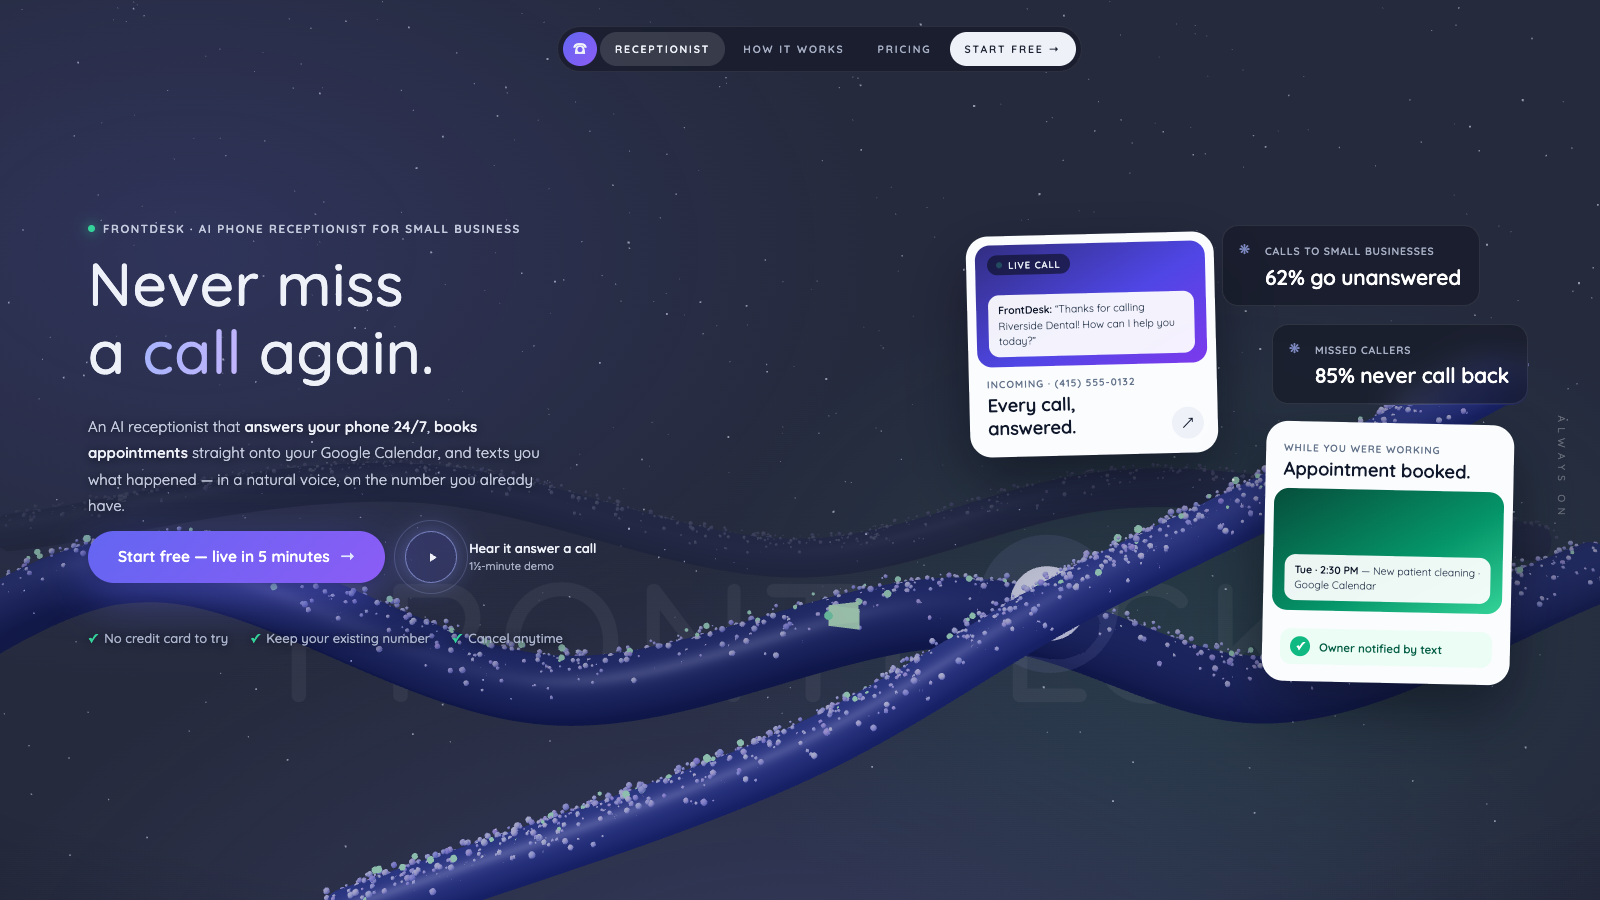
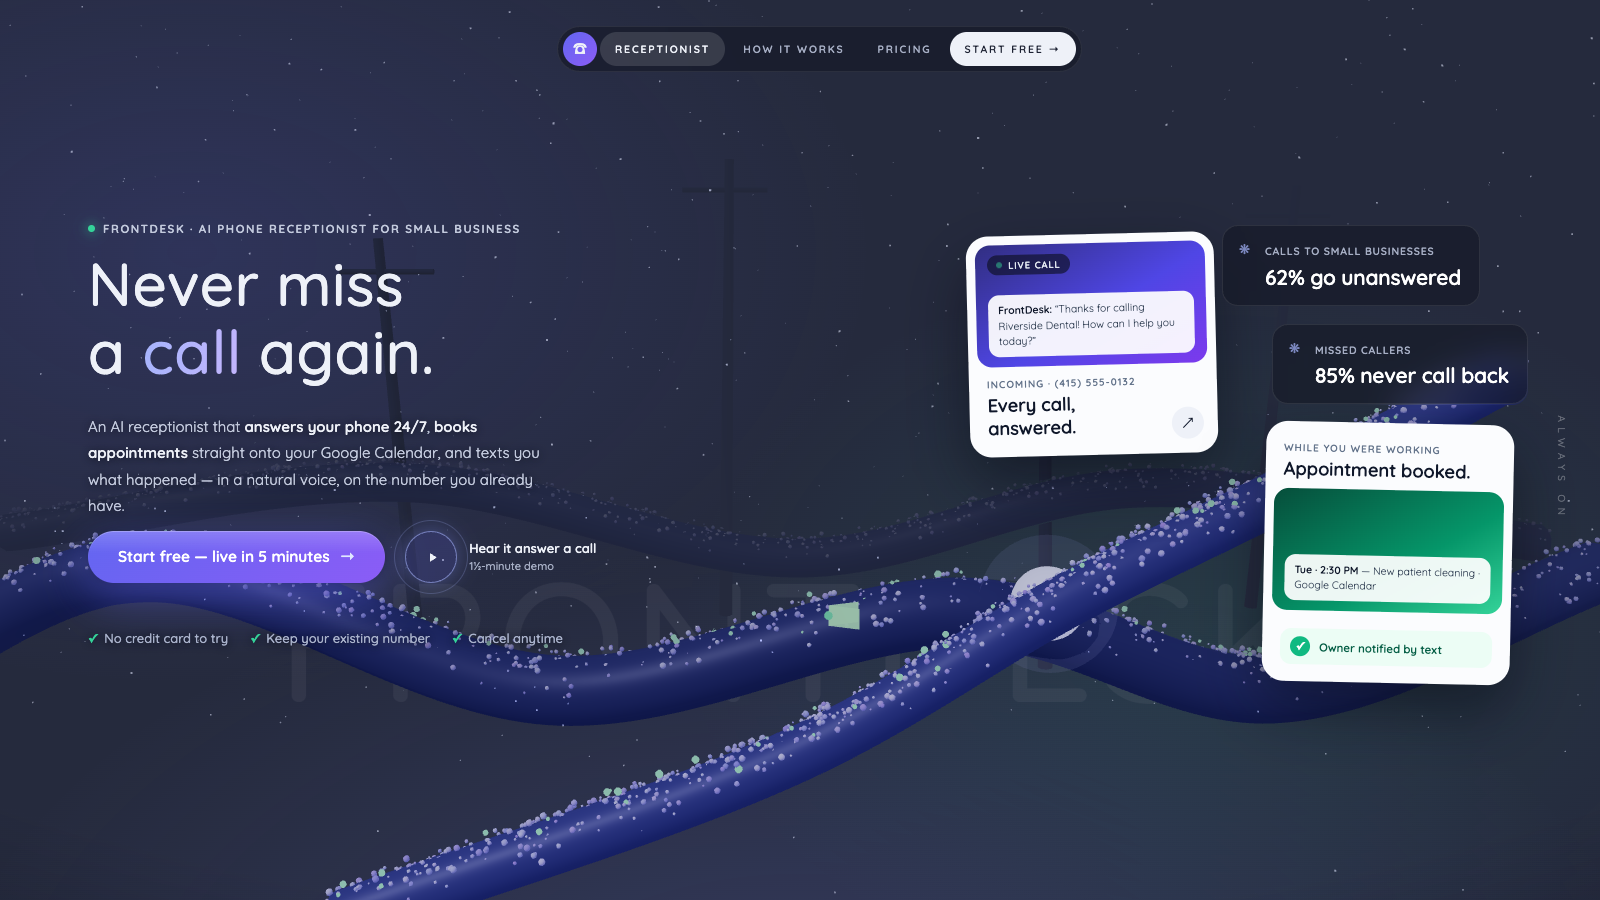
Deep scenery silhouettes: the reference's background trees (3rd depth plane)
Faint fog-swallowed verticals — trunks+limbs in the Sylva replica, utility
poles with crossarms in the FrontDesk example — so the world reads as a
landscape, not tubes in a void. New effect-catalog entry; refreshed stills.

diff --git a/threejs-hero/examples/frontdesk-hero.html b/threejs-hero/examples/frontdesk-hero.html
@@ -377,6 +377,21 @@ wire([[-15,-5.0,-11],[-7,-3.8,-10],[ 0,-5.2,-10],[6,-3.9,-10],[14,-5.2,-11]],   
   scene.add(inst);
 }
 
+/* deep background utility poles — faint silhouettes carrying the wires (3rd depth plane) */
+{
+  const mat = new THREE.MeshStandardMaterial({color:0x333a58, roughness:.95, transparent:true, opacity:0});
+  finalMats.push(mat);
+  for (const [x, z, h, lean] of [[-7.5,-11,8,.03],[-1.5,-13.5,9.5,-.02],[4.5,-10.5,7.5,.04],[10,-14,9,-.03]]){
+    const pole = new THREE.Mesh(new THREE.CylinderGeometry(.09, .14, h, 8), mat);
+    pole.position.set(x, h/2 - 7.5, z);
+    pole.rotation.z = lean;
+    scene.add(pole);
+    const arm = new THREE.Mesh(new THREE.CylinderGeometry(.055, .055, 1.7, 6), mat);
+    arm.rotation.z = Math.PI/2;
+    arm.position.set(x, h - 8.1, z);
+    scene.add(arm);
+  }
+}
 /* the receptionist core: glowing orb where the wires converge (right) */
 const core = new THREE.Mesh(new THREE.SphereGeometry(.42, 48, 48),
   new THREE.MeshStandardMaterial({color:0xc7d2fe, emissive:0x818cf8, emissiveIntensity:2.2,

diff --git a/threejs-hero/examples/sylva-replica.html b/threejs-hero/examples/sylva-replica.html
@@ -289,6 +289,22 @@ branch([[-15,-5.0,-11],[-7,-3.8,-10],[ 0,-5.2,-10],[6,-3.9,-10],[14,-5.2,-11]], 
   inst.instanceColor.needsUpdate = true;
   scene.add(inst);
 }
+/* deep background trees — bare trunk silhouettes almost swallowed by fog (3rd depth plane) */
+{
+  const mat = new THREE.MeshStandardMaterial({color:0x3d4633, roughness:.95, transparent:true, opacity:0});
+  finalMats.push(mat);
+  for (const [x, z, h, r, lean] of [[-6.5,-11,9,.42,-.05],[-2.5,-13.5,11,.55,.03],[2.8,-10.5,8,.36,.06],
+                                     [7.5,-14,12,.6,-.04],[11.5,-12,9,.44,.05]]){
+    const trunk = new THREE.Mesh(new THREE.CylinderGeometry(r*.5, r, h, 8), mat);
+    trunk.position.set(x, h/2 - 7, z);
+    trunk.rotation.z = lean;
+    scene.add(trunk);
+    const limb = new THREE.Mesh(new THREE.CylinderGeometry(r*.2, r*.32, h*.42, 6), mat);
+    limb.position.set(x + r*2.2, h*.62 - 7, z);
+    limb.rotation.z = -.85 + lean;
+    scene.add(limb);
+  }
+}
 /* tiny white flowers on the two front branches */
 {
   const COUNT = 260;

diff --git a/threejs-hero/SKILL.md b/threejs-hero/SKILL.md
@@ -87,6 +87,12 @@ Never put two of these on the same element via `transform`.
   upward-biased random directions, scale .5–1.5, per-instance `setColorAt` with HSL
   jitter (hue .25±.06, sat .3–.5, light .2–.4 for moss). A second sparse InstancedMesh
   adds micro-details (white flowers, sparks).
+- **Deep scenery silhouettes (3rd depth plane)** — 4–6 bare vertical shapes at
+  z ≈ −10…−14 so the fog almost swallows them: tree trunks with one lean limb for a
+  forest, utility poles with a crossarm for an urban/tech world — whatever the brand's
+  world implies. Vary height/lean, share the scan's fade-in materials. Without this
+  plane the world reads as tubes floating in a void; with it, the fog implies a whole
+  landscape (the reference's background trees).
 - **"Orbit using mouse"** — pointer → small target offset
   (±1.0 x, ∓0.6 y), `camera.position.lerp(target,.045)` every frame, `lookAt` fixed.
   DOM `.px` wrappers translate −pointer·(6–24 px) at different rates per layer.
